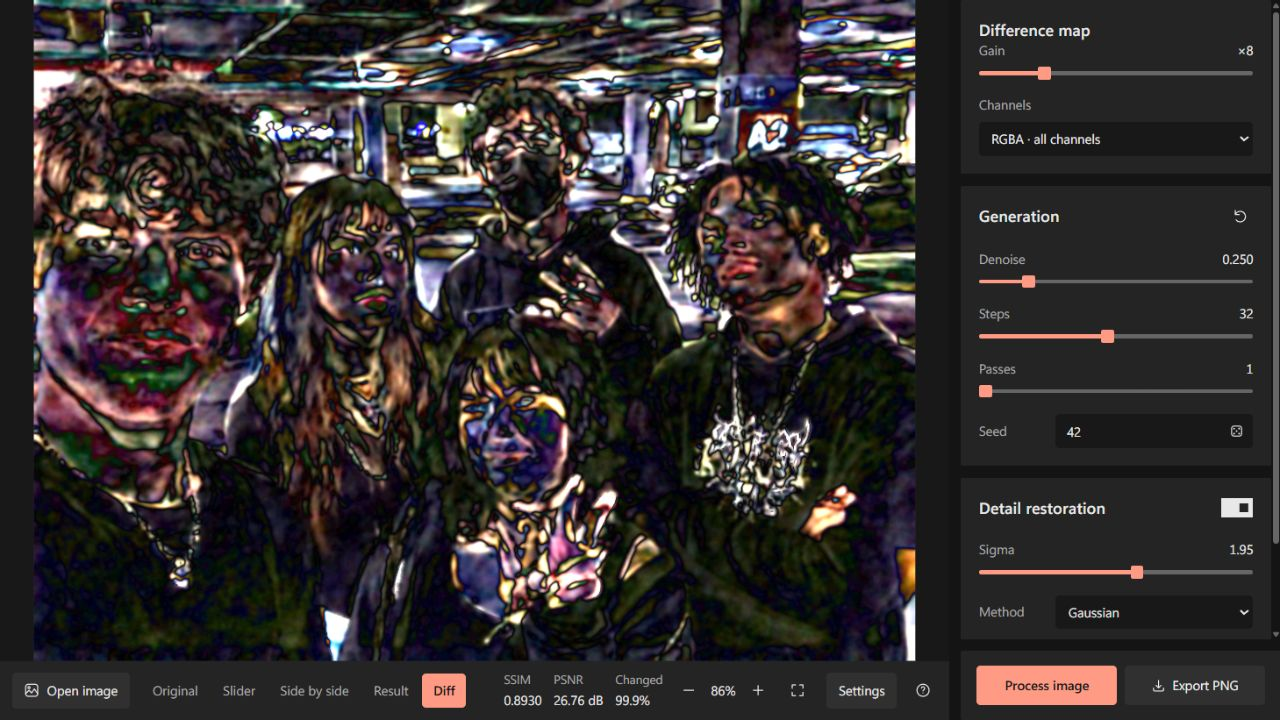
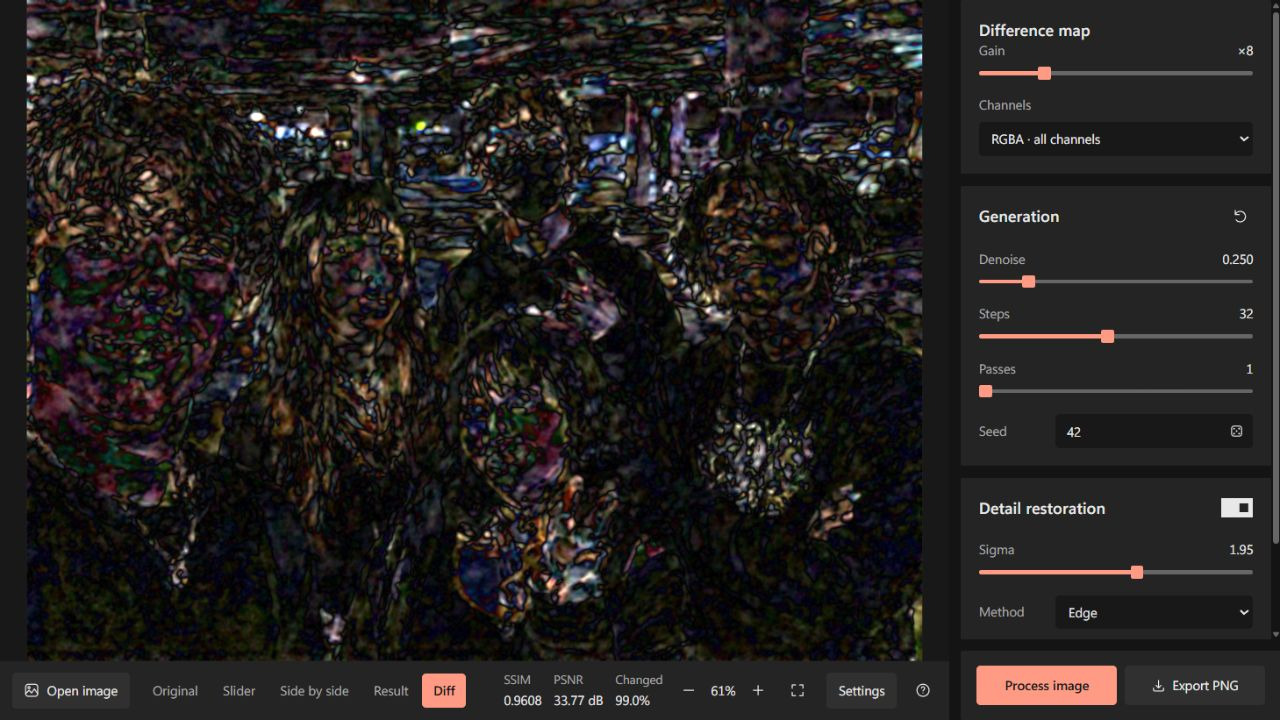
update readme

diff --git a/README.md b/README.md
@@ -33,20 +33,18 @@ the original dimensions and alpha channel.
 
 ### Setup
 
-Use **Python 3.11**. From the repository folder in Windows PowerShell:
+Install **Python 3.11** and **GNU Make**, then run from the repository folder:
 
-```powershell
-py -3.11 scripts/project.py setup
-.\.venv\Scripts\python.exe gui.py
+```sh
+make setup
+make gui
 ```
 
 Setup installs dependencies and downloads models into `ai/`. The default is
 **Q4_K_M**, the smaller model. Keep the included `embeds_cache.pt`.
 
-On Linux/macOS, use `python3.11` for setup and `.venv/bin/python` to run scripts.
-For CPU-only installation, add `--backend cpu` to setup.
-
-With GNU Make: `make setup`, then `make gui`. Use `make doctor` to check setup.
+For CPU-only installation, use `make setup BACKEND=cpu`.
+Use `make doctor` to check setup and `make help` to list commands.
 
 ### Models
 
@@ -65,8 +63,8 @@ Qwen-Image-2512 model can be selected in Settings or with `--transformer`.
 
 To download Q8 after setup:
 
-```powershell
-py -3.11 scripts/project.py models --model q8
+```sh
+make models MODEL=q8
 ```
 
 ### GUI
@@ -84,20 +82,21 @@ in Original or Diff, it saves that image.
 added models; **Save settings** applies choices. Sequential offload uses RAM to
 reduce VRAM use. Leave Precision on Auto.
 
+![Model, device and preset settings](docs/images/settings.jpg)
+
 ### CLI
 
-Commands below use the Windows virtual environment. On Linux/macOS, replace
-`.\.venv\Scripts\python.exe` with `.venv/bin/python`.
+Pass processing options through `ARGS`. `INPUT` defaults to `original.png`.
 
-```powershell
+```sh
 # Process original.png with automatic model selection
-.\.venv\Scripts\python.exe desynth.py --seed 42
+make run ARGS="--seed 42"
 
 # Repeat with Edge restoration
-.\.venv\Scripts\python.exe desynth.py original.png --denoise 0.25 --steps 32 --seed 42 --restore-mode edge
+make run ARGS="--seed 42 --restore-mode edge"
 
 # Select Q8 explicitly
-.\.venv\Scripts\python.exe desynth.py original.png --transformer ai/Qwen-Image-2512-Q8_0.gguf --seed 42
+make run ARGS="--transformer ai/Qwen-Image-2512-Q8_0.gguf --seed 42"
 ```
 
 For `original.png`, final images and `comparison_...` PNGs go to `out/` with
@@ -124,18 +123,19 @@ Defaults below assume the 8-step adapter.
 | `--lightning PATH` | Automatic, prefers 8-step FP32 | Select a Lightning adapter |
 
 The 4-step adapter keeps its CLI default of 8 total steps. Set `--steps 16`
-at Denoise 0.25 for four sampling steps. Use `--help` for all options.
+at Denoise 0.25 for four sampling steps. Use `make run ARGS="--help"` for all options.
 
 ### Quality check
 
-```powershell
-$result = "out/Original_desynth_s32_d0.250_p1_r1.95.png"
-.\.venv\Scripts\python.exe compare.py original.png $result
-.\.venv\Scripts\python.exe diff.py original.png $result --out out/diff.png --gain 8
+```sh
+make compare OUTPUT=out/Original_desynth_s32_d0.250_p1_r1.95.png
+make diff OUTPUT=out/Original_desynth_s32_d0.250_p1_r1.95.png GAIN=8
 ```
 
-`compare.py` prints similarity metrics. `diff.py` saves a visible RGBA difference
+`make compare` prints similarity metrics. `make diff` saves a visible RGBA difference
 map; Gain amplifies small changes. Black means identical pixels.
+
+![Diff view with visible differences amplified](docs/images/diff.jpg)
 
 ## Hardware
 
